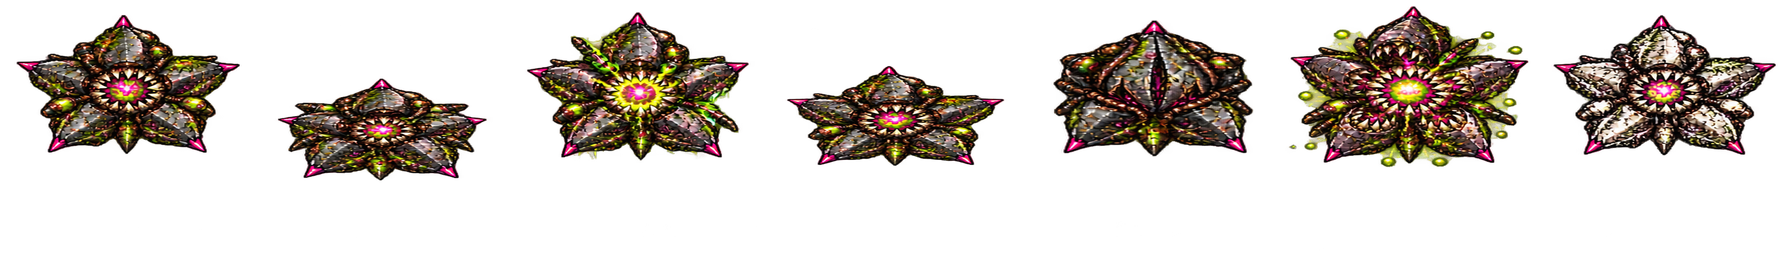
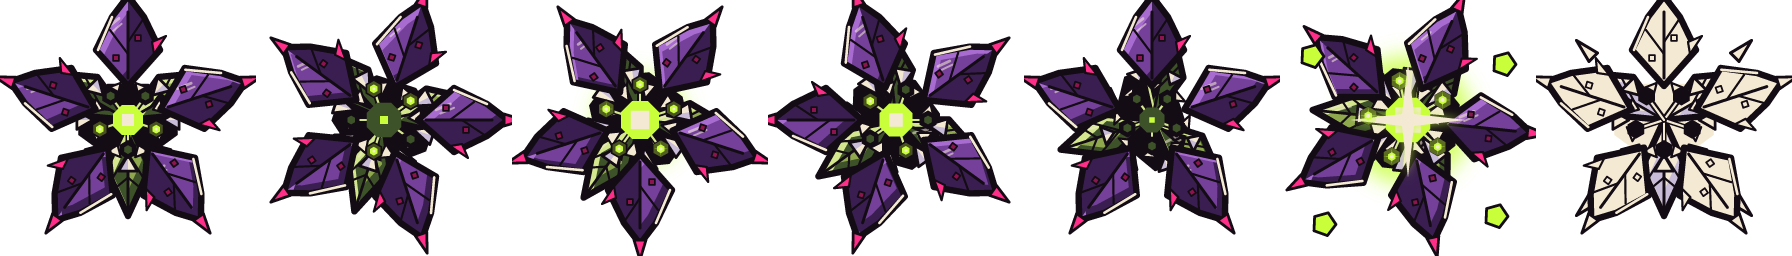
Fix Bloom Maw spin and maw animation

diff --git a/Pause/Assets/Art/Enemies/src~/big.py b/Pause/Assets/Art/Enemies/src~/big.py
@@ -7,8 +7,8 @@ the charge-up.
                           a sensor mast pair, bolted panels, warning stripes
   frost    Glacier Golem  an iceberg hulk with a riveted brow, a cyan visor,
                           frost-vent cheeks and a crystal maw
-  verdant  Bloom Maw      a carnivorous bud whose veined petals fold back on
-                          a ring of teeth and glowing stamens
+  verdant  Bloom Maw      a spinning carnivorous flower with a toothed,
+                          glowing maw that opens and snaps shut
   ember    Magma Skull    a horned basalt skull bolted together, temple vents
                           and a furnace jaw behind a toothed grille
 
@@ -285,15 +285,21 @@ def magma_skull(i):
 
 # ---------------------------------------------------------------- Verdant ----
 def bloom(i):
-    """Verdant: a carnivorous bud. Veined petals breathe; the tell opens the
-    maw on a double ring of teeth and five glowing stamens."""
-    lv, spread, sy = FRAMES[i]
+    """Verdant: a spinning carnivorous flower.  The silhouette stays rigid
+    while its central maw works; it must never read as five flapping wings."""
+    lv, _, _ = FRAMES[i]
     ba, bb = BLINK[i]
     p = Parts()
-    openness = max(0.0, min(1.0, (spread + 5) / 15))   # 0 shut .. 1 wide
+    # The old animation pushed every petal in and out, which made this heavy
+    # look like it was flapping.  Advance the whole flower around its centre
+    # instead, then reserve the squash/stretch exclusively for the mouth.
+    spin = (0, 18, 36, 54, 72, 96)[i]
+    openness = (0.35, 0.55, 0.72, 0.5, 0.12, 1.0)[i]
+    R = lambda q: xf(q, CX, CY, rot=spin)
     # sepals (back leaves): ribbed, with chitin scales at the root
     for a in (-150, -30, 90):
         lf = xf([(CX, CY), (CX - 11, CY - 24), (CX, CY - 48), (CX + 11, CY - 24)], CX, CY, rot=a + 90)
+        lf = R(lf)
         cid = cel(p, lf, BILE, BILE_SH, BILE_HI, sh_off=(4, 4), ink_w=3.2)
         plane(p, cid, [lf[0], lf[2], lf[3]], BILE_SH)
         p.ink += line([lf[0], lf[2]], 1.4)
@@ -301,50 +307,54 @@ def bloom(i):
             a0 = lerp_pts([lf[0]], [lf[2]], t)[0]
             p.ink += line([a0, lerp_pts([lf[1]], [lf[2]], t * 0.7)[0]], 1.1) + line([a0, lerp_pts([lf[3]], [lf[2]], t * 0.7)[0]], 1.1)
     # the maw inside
-    maw = ngon(CX, CY, 27, 8, 22.5)
+    maw = R(xf(ngon(CX, CY, 27, 8, 22.5), CX, CY, 1, 0.58 + 0.42 * openness))
     p.base += poly(maw, INK)
-    core(p, CX, CY, 8 + 4 * openness, BILE_LIGHT, lv, socket=False)
+    core(p, *R([(CX, CY)])[0], 6 + 6 * openness, BILE_LIGHT, lv, socket=False)
     for k in range(8):   # outer thorn teeth ringing the maw
         a = math.radians(k * 45)
         t = [(CX + 26 * math.cos(a - 0.18), CY + 26 * math.sin(a - 0.18)),
-             (CX + (16 - 4 * openness) * math.cos(a), CY + (16 - 4 * openness) * math.sin(a)),
+             (CX + (21 - 10 * openness) * math.cos(a), CY + (21 - 10 * openness) * math.sin(a)),
              (CX + 26 * math.cos(a + 0.18), CY + 26 * math.sin(a + 0.18))]
-        p.detail += poly(t, BONE) + poly([t[1], t[2], (CX + 25 * math.cos(a), CY + 25 * math.sin(a))], FLASH_SH) + inkpoly(t, 1.4)
+        t = R(t)
+        shade_tip = R([(CX + 25 * math.cos(a), CY + 25 * math.sin(a))])[0]
+        p.detail += poly(t, BONE) + poly([t[1], t[2], shade_tip], FLASH_SH) + inkpoly(t, 1.4)
     for k in range(8):   # inner ring, offset
         a = math.radians(k * 45 + 22.5)
         t = [(CX + 19 * math.cos(a - 0.2), CY + 19 * math.sin(a - 0.2)),
-             (CX + (12 - 3 * openness) * math.cos(a), CY + (12 - 3 * openness) * math.sin(a)),
+             (CX + (16 - 7 * openness) * math.cos(a), CY + (16 - 7 * openness) * math.sin(a)),
              (CX + 19 * math.cos(a + 0.2), CY + 19 * math.sin(a + 0.2))]
+        t = R(t)
         p.detail += poly(t, BONE) + inkpoly(t, 1.1)
     # stamens: stalks with bud lights, blinking in turn
     for k in range(5):
         a = math.radians(k * 72 - 54)
-        tip = (CX + (14 + 6 * openness) * math.cos(a), CY + (14 + 6 * openness) * math.sin(a))
-        p.detail += line([(CX, CY), tip], 2.6) + line([(CX, CY), tip], 1.1, BILE_HI)
+        tip = (CX + (12 + 8 * openness) * math.cos(a), CY + (12 + 8 * openness) * math.sin(a))
+        root, tip = R([(CX, CY), tip])
+        p.detail += line([root, tip], 2.6) + line([root, tip], 1.1, BILE_HI)
         hexlight(p, tip[0], tip[1], 2.2, ba if k % 2 else bb, BILE_LIGHT, rot=0)
-    # five petals: closed they cover the maw, open they fold back
+    # Five rigid petals turn together as one body.  Only the mouth above moves.
     for k in range(5):
         a = k * 72 - 90
         r = math.radians(a)
-        d = 10 + 20 * openness
+        d = 27
         px, py = CX + d * math.cos(r), CY + d * math.sin(r)
         L = 35
-        R = lambda q: xf(xf(q, px, py, rot=a + 90), CX, CY, 1, sy)
-        pet = R([(px, py + 10), (px - 16, py - 8), (px - 8, py - L * 0.7), (px, py - L), (px + 8, py - L * 0.7), (px + 16, py - 8)])
+        P = lambda q: R(xf(q, px, py, rot=a + 90))
+        pet = P([(px, py + 10), (px - 16, py - 8), (px - 8, py - L * 0.7), (px, py - L), (px + 8, py - L * 0.7), (px + 16, py - 8)])
         cid = cel(p, pet, BRUISE, BRUISE_SH, BRUISE_HI, sh_off=(4, 4), ink_w=0, detail=True)
-        p.detail += plane_svg(cid, R([(px, py + 12), (px, py - L), (px + 20, py - L), (px + 20, py + 12)]), BRUISE_SH)
+        p.detail += plane_svg(cid, P([(px, py + 12), (px, py - L), (px + 20, py - L), (px + 20, py + 12)]), BRUISE_SH)
         p.detail += inkpoly(pet, 3.2)
         # veins: midrib and two side veins
-        p.detail += line(R([(px, py + 6), (px, py - L + 8)]), 1.5)
-        p.detail += line(R([(px, py - 6), (px - 9, py - 18)]), 1.1) + line(R([(px, py - 12), (px + 8, py - 24)]), 1.1)
+        p.detail += line(P([(px, py + 6), (px, py - L + 8)]), 1.5)
+        p.detail += line(P([(px, py - 6), (px - 9, py - 18)]), 1.1) + line(P([(px, py - 12), (px + 8, py - 24)]), 1.1)
         # magenta warning spots and the thorn tip
         for q in ((px - 6, py - 4), (px + 5, py - 14)):
-            d_ = R(ngon(q[0], q[1], 2, 4, 45))
+            d_ = P(ngon(q[0], q[1], 2, 4, 45))
             p.detail += poly(d_, MAGENTA_SH) + inkpoly(d_, 0.9)
-        p.detail += line(R([(px - 15, py - 8), (px - 8, py - L * 0.7)]), 1.3, BONE)
-        tip = R([(px - 3, py - L + 2), (px, py - L - 8), (px + 3, py - L + 2)])
+        p.detail += line(P([(px - 15, py - 8), (px - 8, py - L * 0.7)]), 1.3, BONE)
+        tip = P([(px - 3, py - L + 2), (px, py - L - 8), (px + 3, py - L + 2)])
         p.detail += poly(tip, MAGENTA) + inkpoly(tip, 1.4)
-        side = R([(px + 12, py - 12), (px + 19, py - 15), (px + 13, py - 6)])
+        side = P([(px + 12, py - 12), (px + 19, py - 15), (px + 13, py - 6)])
         p.detail += poly(side, MAGENTA) + inkpoly(side, 1.1)
     if i == 5:
         for x, y in ((16, 28), (112, 32), (22, 112), (108, 108)):

diff --git a/Pause/Assets/Scripts/Gameplay/Enemies/EnemyRoster.cs b/Pause/Assets/Scripts/Gameplay/Enemies/EnemyRoster.cs
@@ -390,9 +390,9 @@ public static class EnemyRoster
                 "A seed burr dangling from the rail vines. When its husk splits and the seams glow, it's about " +
                 "to scatter thorns everywhere."),
             Def("verdant_big", "Bloom Maw", B, 2, 0, "enemy_verdant_big", Spore,
-                "Five-petal carnivorous bud; the petals fold back to show a toothed glowing maw.",
-                "A flower that eats ships. Shut, it's just a big bud; when the petals snap open, it's " +
-                "hungry."),
+                "Spinning five-petal carnivorous flower; its toothed glowing maw opens and snaps shut.",
+                "A flower that eats ships. Its petals spin as one body while the maw at its centre opens " +
+                "wide when it's hungry."),
             Def("verdant_fighter_1", "Gnat", F, 2, 1, "enemy_verdant_fighter_1", Spore,
                 "Small bile bug, buzzing leaf wings, bile eyes.",
                 "Little buzzing bugs that swarm anything new. You're very new."),
